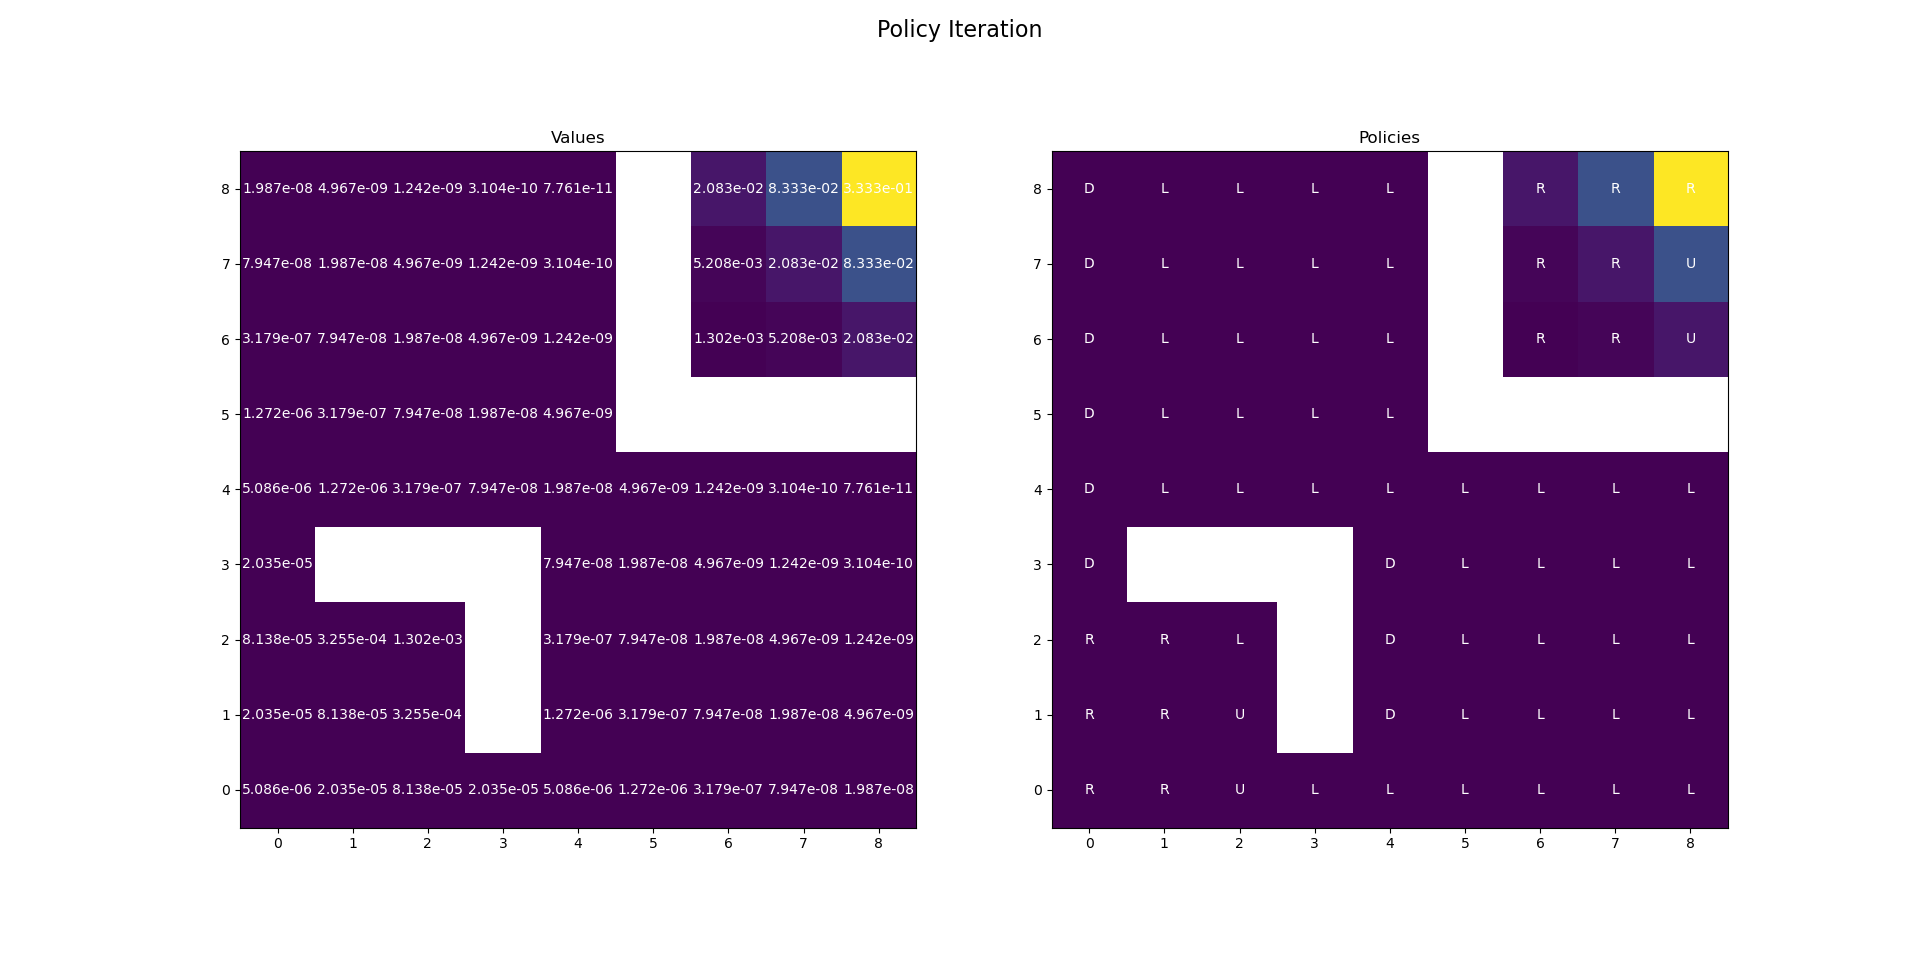
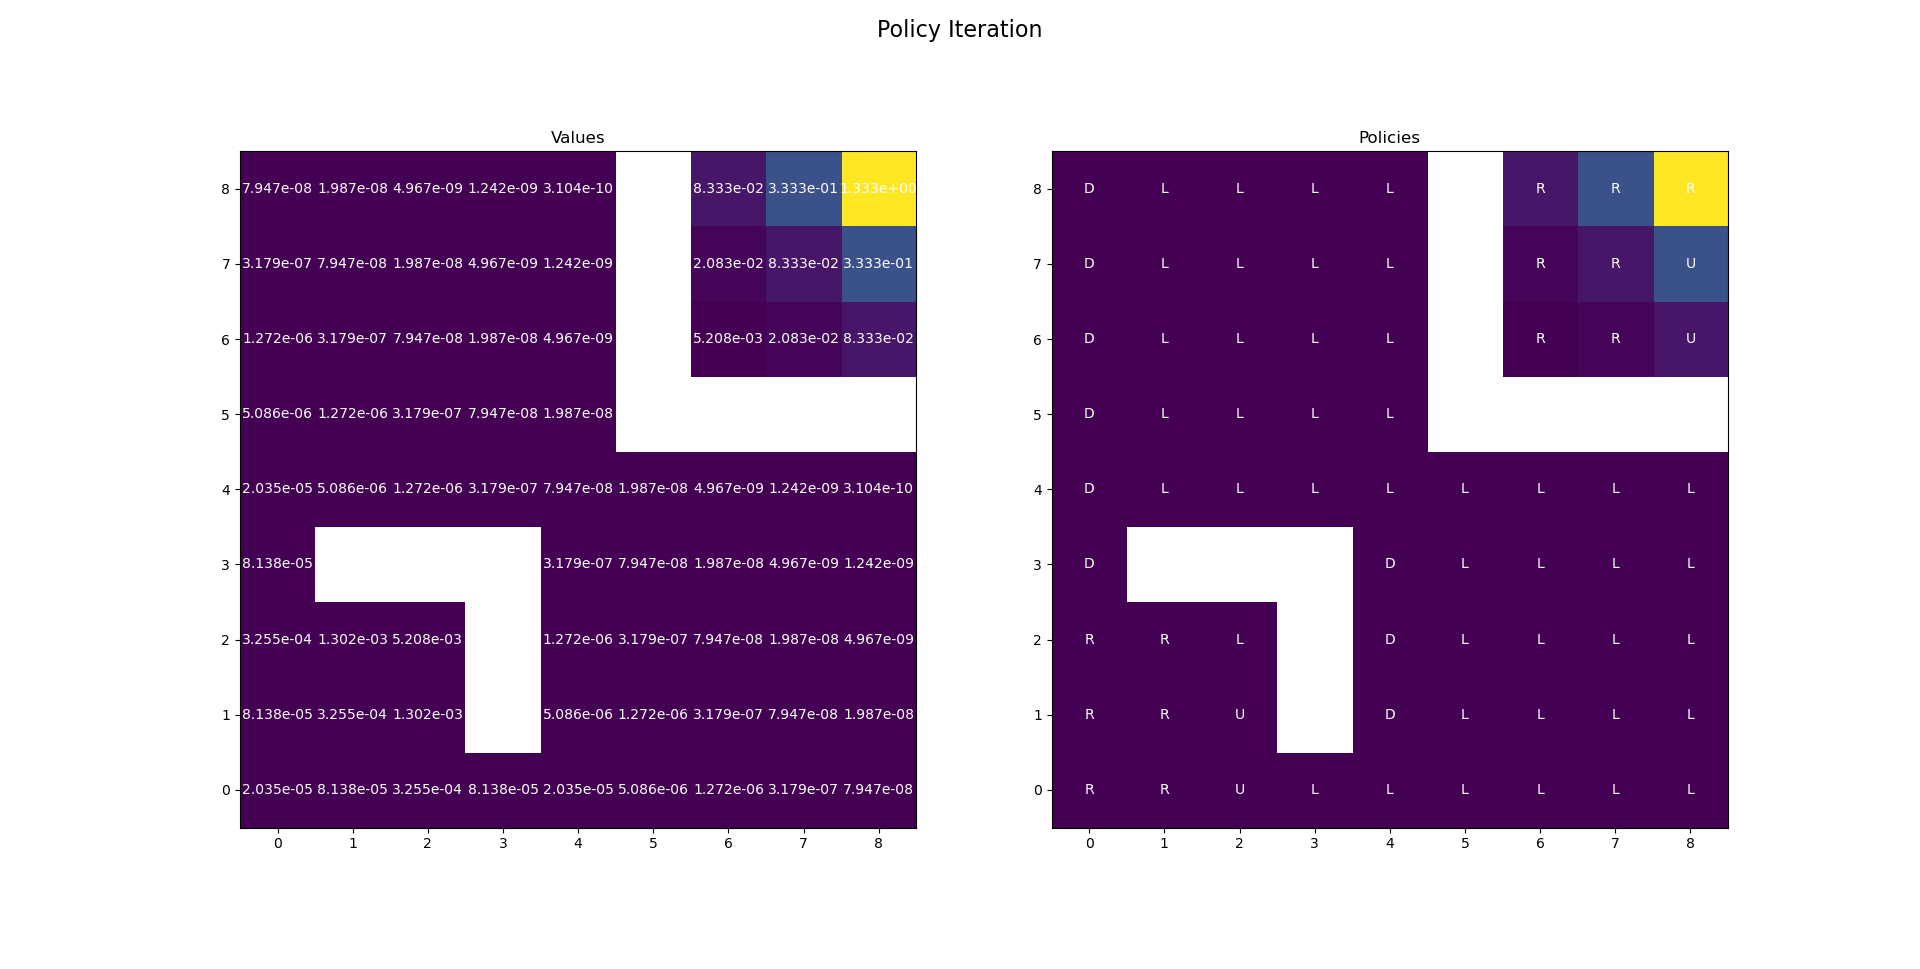
Updated Code to fix iteration equation and changed results accordingly

diff --git a/Assignment_1/Q2/Program.cs b/Assignment_1/Q2/Program.cs
@@ -59,7 +59,6 @@ namespace Q2
 
                         if (env.Walkable.Keys.ToArray().Contains(current))
                         {
-                            
                             mdp.AddStateAction(env.Walkable[current], env.Actions.Left, transitionCurrentLeft);
                             mdp.AddStateAction(env.Walkable[current], env.Actions.Right, transitionCurrentRight);
                             mdp.AddStateAction(env.Walkable[current], env.Actions.Up, transitionCurrentUp);
@@ -89,37 +88,9 @@ namespace Q2
             Dictionary<State, Classes.Action> pValueIter = new Dictionary<State, Classes.Action>();
             Dictionary<State, Classes.Action> pPolicyIter = new Dictionary<State, Classes.Action>();
 
-            
-
             mdp.PolicyIteration(out vPolicyIter, out pPolicyIter, gamma, epsilon);
 
-            // Console.WriteLine("Optimal Values With Policy Iterations:");
-            // foreach (var state in mdp.States)
-            // {
-            //     Console.WriteLine($"value({state}) = {value[state]}");
-            // }
-
-            // Console.WriteLine("\nOptimal Policy:");
-            // foreach (var state in mdp.States)
-            // {
-            //     Console.WriteLine($"π({state}) = {policy[state]}");
-            // }
-
-            Console.WriteLine("\n*************************\n");
-
             mdp.ValueIteration(out vValueIter, out pValueIter, gamma, epsilon);
-
-            // Console.WriteLine("Optimal Values With Value Iterations:");
-            // foreach (var state in mdp.States)
-            // {
-            //     Console.WriteLine($"value({state}) = {value[state]}");
-            // }
-
-            // Console.WriteLine("\nOptimal Policy:");
-            // foreach (var state in mdp.States)
-            // {
-            //     Console.WriteLine($"π({state}) = {policy[state]}");
-            // }
 
             vValueIter[env.PortalIn.Values.ToArray()[0]] = vValueIter[env.PortalOut.Values.ToArray()[0]];
             vPolicyIter[env.PortalIn.Values.ToArray()[0]] = vPolicyIter[env.PortalOut.Values.ToArray()[0]];
@@ -129,30 +100,25 @@ namespace Q2
         static List<Transition> CreateTransactionList(Environment env, Coordinate currentTile, Coordinate NextTile)
         {
             var transitionsCurrentNext = new List<Transition>();
-                    
-            // Console.Write($"X:{currentTile.X} Y:{currentTile.Y}");
+
             // Next Tile is Obstacle or Boundary
             if (NextTile.X < 0 || NextTile.Y < 0 || NextTile.X >= env.n || NextTile.Y >= env.n || env.Obstacles.Keys.Contains(NextTile))
             {
                 State next;
-                Transition nextTransition;                
+                           
                 if (env.Goal.Keys.Contains(currentTile))
                 {
                     next = env.Goal[currentTile];
-                    nextTransition = new Transition(next, 0.25, 1);
-                    transitionsCurrentNext.Add(nextTransition);
-                    return transitionsCurrentNext;
                 }
                 else if (env.Walkable.Keys.Contains(currentTile))
                 {
                     next = env.Walkable[currentTile];
-                    nextTransition = new Transition(next, 0.25, 0);
                 }
                 else
                 {
                     next = env.PortalOut[currentTile];
-                    nextTransition = new Transition(next, 0.25, 0);
                 }
+                Transition nextTransition  = new Transition(next, 0.25);
                 transitionsCurrentNext.Add(nextTransition);
             }
             // Next Tile is portalIn
@@ -160,21 +126,21 @@ namespace Q2
             {
                 Coordinate portalOut = env.PortalOut.Keys.ToArray()[0];
                 State next = env.PortalOut[portalOut];
-                Transition nextTransition = new Transition(next, 0.25, 0);
+                Transition nextTransition = new Transition(next, 0.25);
                 transitionsCurrentNext.Add(nextTransition);
             }
             // Next Tile is walkable
             else if (env.Walkable.Keys.Contains(NextTile))
             {
                 State next = env.Walkable[NextTile];
-                Transition nextTransition = new Transition(next, 0.25, 0);
+                Transition nextTransition = new Transition(next, 0.25);
                 transitionsCurrentNext.Add(nextTransition);
             }
             // Next Tile is Goal
             else if (env.Goal.Keys.Contains(NextTile))
             {
                 State next = env.Goal[NextTile];
-                Transition nextTransition = new Transition(next, 0.25, 0);
+                Transition nextTransition = new Transition(next, 0.25);
                 transitionsCurrentNext.Add(nextTransition);
             }
 

diff --git a/Assignment_1/Q1/Program.cs b/Assignment_1/Q1/Program.cs
@@ -11,9 +11,9 @@ namespace Q1
             double epsilon = 1e-6;
 
             dynamic s1 = new StateSpace();
-            s1.Add("Hostel");
-            s1.Add("Academic_Building");
-            s1.Add("Canteen");
+            s1.Add("Hostel", -1);
+            s1.Add("Academic_Building", 3);
+            s1.Add("Canteen", 1);
 
             dynamic a1 = new ActionSpace();
             a1.Add("Class");
@@ -22,42 +22,42 @@ namespace Q1
             MDP Mdp = new MDP(s1, a1);
             var transitionsHostelClass = new List<Transition>
             {
-                new Transition(s1.Hostel, 0.5, -1),
-                new Transition(s1.Academic_Building, 0.5, 3)
+                new Transition(s1.Hostel, 0.5),
+                new Transition(s1.Academic_Building, 0.5)
             };
             Mdp.AddStateAction(s1.Hostel, a1.Class, transitionsHostelClass);
 
             var transitionsHostelHungry = new List<Transition>
             {
-                new Transition(s1.Canteen, 1, 1)
+                new Transition(s1.Canteen, 1)
             };
             Mdp.AddStateAction(s1.Hostel, a1.Hungry, transitionsHostelHungry);
 
             var transitionsABClass = new List<Transition>
             {
-                new Transition(s1.Academic_Building, 0.7, 3),
-                new Transition(s1.Canteen, 0.3, 1)
+                new Transition(s1.Academic_Building, 0.7),
+                new Transition(s1.Canteen, 0.3)
             };
             Mdp.AddStateAction(s1.Academic_Building, a1.Class, transitionsABClass);
 
             var transitionsABHungry = new List<Transition>
             {
-                new Transition(s1.Academic_Building, 0.2, 3),
-                new Transition(s1.Canteen, 0.8, 1)
+                new Transition(s1.Academic_Building, 0.2),
+                new Transition(s1.Canteen, 0.8)
             };
             Mdp.AddStateAction(s1.Academic_Building, a1.Hungry, transitionsABHungry);
 
             var transitionsCanteenClass = new List<Transition>
             {
-                new Transition(s1.Hostel, 0.3, -1),
-                new Transition(s1.Academic_Building, 0.6, 3),
-                new Transition(s1.Canteen, 0.1, 1)
+                new Transition(s1.Hostel, 0.3),
+                new Transition(s1.Academic_Building, 0.6),
+                new Transition(s1.Canteen, 0.1)
             };
             Mdp.AddStateAction(s1.Canteen, a1.Class, transitionsCanteenClass);
 
             var transitionsCanteenHungry = new List<Transition>
             {
-                new Transition(s1.Canteen, 1, 1)
+                new Transition(s1.Canteen, 1)
             };
             Mdp.AddStateAction(s1.Canteen, a1.Hungry, transitionsCanteenHungry);
 

diff --git a/Assignment_1/Q2/Environment.cs b/Assignment_1/Q2/Environment.cs
@@ -28,20 +28,20 @@ namespace Q2
 
             foreach (var obstacle in obstacles)
             {
-                State obstacleState = new State($"obstacle_{obstacle.X}_{obstacle.Y}");
+                State obstacleState = new State($"obstacle_{obstacle.X}_{obstacle.Y}", 0);
                 Obstacles[obstacle] = obstacleState;
                 states.Add(obstacleState);
             }
 
-            State portalInState = new State($"portalIn_{portalIn.X}_{portalIn.Y}");
+            State portalInState = new State($"portalIn_{portalIn.X}_{portalIn.Y}", 0);
             PortalIn[portalIn] = portalInState;
             states.Add(portalInState);
 
-            State portalOutState = new State($"portalOut_{portalOut.X}_{portalOut.Y}");
+            State portalOutState = new State($"portalOut_{portalOut.X}_{portalOut.Y}", 0);
             PortalOut[portalOut] = portalOutState;
             states.Add(portalOutState);
 
-            State goalState = new State($"goal_{goal.X}_{goal.Y}");
+            State goalState = new State($"goal_{goal.X}_{goal.Y}", 1);
             Goal[goal] = goalState;
             states.Add(goalState);
 
@@ -55,7 +55,7 @@ namespace Q2
                         portalOut != current &&
                         goal != current)
                     {
-                        State walkableState = new State($"walkable_{current.X}_{current.Y}");
+                        State walkableState = new State($"walkable_{current.X}_{current.Y}", 0);
                         Walkable[current] = walkableState;
                         states.Add(walkableState);
                     }

diff --git a/Assignment_1/Classes/MDP.cs b/Assignment_1/Classes/MDP.cs
@@ -56,11 +56,11 @@ namespace Classes
 
                     foreach (var stateAction in GetStateActions(state))
                     {
-                        double actionValue = 0.0;
+                        double actionValue = state.Reward;
 
                         foreach (var transition in stateAction.Transitions)
                         {
-                            actionValue += transition.Probability * (transition.Reward + gamma * value[transition.NextState]);
+                            actionValue += transition.Probability *  gamma * value[transition.NextState];
                         }
 
                         if (actionValue > maxValue)
@@ -106,7 +106,7 @@ namespace Classes
 
                 foreach (var state in States)
                 {
-                    double newValue = 0.0;
+                    double newValue = state.Reward;
 
                     var stateAction = GetStateActions(state).FirstOrDefault(sa => sa.ActionTaken == policy[state]);
 
@@ -114,7 +114,7 @@ namespace Classes
                     {
                         foreach (var transition in stateAction.Transitions)
                         {
-                            newValue += transition.Probability * (transition.Reward + gamma * value[transition.NextState]);
+                            newValue += transition.Probability * (gamma * value[transition.NextState]);
                         }
                     }
 

diff --git a/Assignment_1/Classes/StateSpace.cs b/Assignment_1/Classes/StateSpace.cs
@@ -11,9 +11,9 @@ namespace Classes
             states = new Dictionary<string, State>();
         }
         // Shorthand method to allow 's1.Add("Sleep")'
-        public void Add(string stateName)
+        public void Add(string stateName, double stateReward)
         {
-            states.Add(stateName, new State(stateName));
+            states.Add(stateName, new State(stateName, stateReward));
         }
 
         public void Add(State state)

diff --git a/Assignment_1/Classes/Transition.cs b/Assignment_1/Classes/Transition.cs
@@ -7,11 +7,11 @@ namespace Classes
         public double Probability { get; set; }
         public double Reward { get; set; }
 
-        public Transition(State nextState, double probability, double reward)
+        public Transition(State nextState, double probability)
         {
             NextState = nextState;
             Probability = probability;
-            Reward = reward;
+            Reward = nextState.Reward;
         }
     }
 }

diff --git a/Assignment_1/Classes/StateAction.cs b/Assignment_1/Classes/StateAction.cs
@@ -13,9 +13,9 @@ namespace Classes
             Transitions = new List<Transition>();
         }
 
-        public void AddTransition(State nextState, double probability, double reward)
+        public void AddTransition(State nextState, double probability)
         {
-            Transitions.Add(new Transition(nextState, probability, reward));
+            Transitions.Add(new Transition(nextState, probability));
         }
     }
 }

diff --git a/Assignment_1/Classes/State.cs b/Assignment_1/Classes/State.cs
@@ -3,11 +3,13 @@ namespace Classes
     public class State
     {
         public string Name { get; set; }
-
-        public State(string name)
+        public double Reward { get; set; }
+        public State(string name, double reward)
         {
             Name = name;
+            Reward = reward;
         }
+
 
         public override string ToString()
         {

diff --git a/Assignment_1/Q1/Readme.md b/Assignment_1/Q1/Readme.md
@@ -8,11 +8,11 @@ Here gamma is the discount factor in MDP, the value is not converging for a very
 
 
 # Value Iterations:
-value(Hostel) = 2041.9216
+value(Hostel) = 2038.8797
 
-value(Academic_Building) = 2044.0076
+value(Academic_Building) = 2044.9636
 
-value(Canteen) = 2042.8197
+value(Canteen) = 2041.7769
 
 **Optimal Policy:**
 
@@ -23,11 +23,11 @@ value(Canteen) = 2042.8197
 π(Canteen) = Class
 
 # Policy Iterations:
-value(Hostel) = 2041.9216
+value(Hostel) = 2038.8797
 
-value(Academic_Building) = 2044.0076
+value(Academic_Building) = 2044.9636
 
-value(Canteen) = 2042.8197
+value(Canteen) = 2041.7769
 
 **Optimal Policy:**
 π(Hostel) = Class

diff --git a/Assignment_1/Q2/Readme.md b/Assignment_1/Q2/Readme.md
@@ -1,6 +1,6 @@
 # Assumptions
 
-* It is assumed that after each step the robot can move only to one of its neighbour tile in the Left, Right, Up and Down directions. 
+* It is assumed that after each step the robot can move only to one of its neighbour tile in the Left, Right, Up and Down directions, each with probabilities 0.25. 
 * It is also assumed that if an action is taken from a tile to another tile such that the next tile is either out of bounds or an obstacle, the robot will remain at the same tile
 * If the robot is at the Portal In tile, it will automatically be teleported to the Portal Out tile without taking any steps
 
